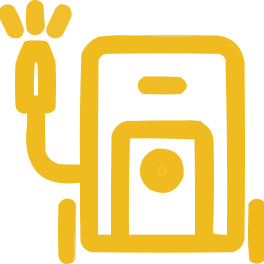
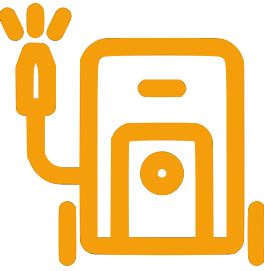
updated version (2.2)
-Added new gallery images
-Added new animations
-Added border on missing headers
-Replaced pw icon color
-Added plumbing and hurricane shutters card

diff --git a/JERCA/FrontEnd/index.html b/JERCA/FrontEnd/index.html
@@ -78,8 +78,7 @@
             </button>
             <a href="tel:2396923133" class="call-btn" id="contact-btn">
               <i class="ri-phone-line"></i>Call us now: (239)-692-3133
-              </a
-            >
+            </a>
           </div>
         </div>
       </div>
@@ -88,6 +87,10 @@
     <section class="section__container section__services" id="services">
       <div class="section__services-header">
         <h4>Services we offer</h4>
+        <p class="text-light">
+          We provide comprehensive handyman services to keep your home in
+          perfect condition.
+        </p>
       </div>
       <div class="section__services-content">
         <div class="section__services-card">
@@ -132,7 +135,23 @@
         </div>
         <div class="section__services-card">
           <div class="section__services-card-icon">
-            <span class="material-symbols-outlined">cleaning_services</span>
+            <span class="material-symbols-outlined"
+              ><span class="material-symbols-outlined"> plumbing </span></span
+            >
+          </div>
+          <h4 style="text-align: center">Plumbing Services</h4>
+          <p class="text-light">
+            Our plumbing services cover everything from leaky faucets to
+            complete installations, ensuring your plumbing systems run smoothly.
+          </p>
+        </div>
+        <div class="section__services-card">
+          <div class="section__services-card-icon">
+            <span class="material-symbols-outlined"
+              ><span class="material-symbols-outlined">
+                house_with_shield
+              </span></span
+            >
           </div>
           <h4 style="text-align: center">Hurricane Shutters instalation</h4>
           <p class="text-light">
@@ -150,23 +169,26 @@
       </div>
       <div class="section__projects-gallery">
         <section id="gallery">
-          <a href="assets/gallery-1.jpg">
-            <img src="assets/gallery-1.jpg" alt="Image 1" />
+          <a href="assets/exterior_kitchen1.jpg">
+            <img src="assets/exterior_kitchen1.jpg" alt="Exterior kitchen renovation" />
           </a>
-          <a href="assets/gallery-2.jpg">
-            <img src="assets/gallery-2.jpg" alt="Image 2" />
+          <a href="assets/modern_kitchen2.jpg">
+            <img src="assets/modern_kitchen2.jpg" alt="Modern kitchen remodel" />
           </a>
-          <a href="assets/gallery-3.jpg">
-            <img src="assets/gallery-3.jpg" alt="Image 3" />
+          <a href="assets/patio_redesign.jpg">
+            <img src="assets/patio_redesign.jpg" alt="Patio redesign" />
           </a>
-          <a href="assets/gallery-4.jpg">
-            <img src="assets/gallery-4.jpg" alt="Image 4" />
+          <a href="assets/driveway_repair.jpg">
+            <img src="assets/driveway_repair.jpg" alt="Driveway restoration" />
           </a>
-          <a href="assets/gallery-5.jpg">
-            <img src="assets/gallery-5.jpg" alt="Image 5" />
+          <a href="assets/roof_cleaning1.jpg">
+            <img src="assets/roof_cleaning1.jpg" alt="Roof cleaning" />
           </a>
-          <a href="assets/gallery-6.jpg">
-            <img src="assets/gallery-6.jpg" alt="Image 6" />
+          <a href="assets/exterior_kitchen2.jpg">
+            <img src="assets/exterior_kitchen2.jpg" alt="Exterior Kitchen Redesign" />
+          </a>
+          <a href="assets/modern_kitchen3.jpg">
+            <img src="assets/modern_kitchen3.jpg" alt="Interior kitchen renovation" />
           </a>
         </section>
       </div>
@@ -307,7 +329,7 @@
             <span class="material-symbols-outlined">phone</span>
             <div>
               <h4>Phone</h4>
-              <p class="text-light">(555) 123-4567</p>
+              <p class="text-light">(239) 692-3133</p>
               <p class="text-light">Mon-Fri: 8am-6pm</p>
             </div>
           </div>
@@ -315,7 +337,7 @@
             <span class="material-symbols-outlined">email</span>
             <div>
               <h4>Email</h4>
-              <p class="text-light">Jercaservices@outlook.com</p>
+              <p class="text-light">Jerca2@hotmail.com</p>
               <p class="text-light">Get your response within 24hrs!</p>
             </div>
           </div>
@@ -323,8 +345,8 @@
             <span class="material-symbols-outlined">map</span>
             <div>
               <h4>Location</h4>
-              <p class="text-light">123th St 45Ave NW</p>
-              <p class="text-light">Miami, FL</p>
+              <p class="text-light">5412 Cameron Dr</p>
+              <p class="text-light">Ave Maria, FL</p>
             </div>
           </div>
         </div>

diff --git a/JERCA/FrontEnd/styles/styles.css b/JERCA/FrontEnd/styles/styles.css
@@ -270,14 +270,19 @@ section {
   margin-bottom: 1rem;
 }
 
-.section__services-header::after {
+.section__services-header h4::after {
   content: "";
   display: block;
-  width: 80px;
+  width: 150px;
   height: 3px;
   background-color: var(--highlights);
   margin: 0 auto;
   margin-top: 1rem;
+}
+
+.section__services-header p {
+  padding: 1rem 0;
+  text-align: center;
 }
 
 .section__services-content {
@@ -298,7 +303,6 @@ section {
   justify-content: center;
   box-shadow: 0 10px 20px rgba(0, 0, 0, 0.05);
   transition: all 0.3s ease;
-  animation: fadeInUp 0.6s ease-out forwards;
   max-height: 450px;
 }
 
@@ -377,7 +381,7 @@ section {
 .section__projects-header h4::after {
   content: "";
   position: absolute;
-  width: 60%;
+  width: 150px;
   height: 3px;
   background-color: var(--highlights);
   bottom: -10px;
@@ -435,6 +439,16 @@ section {
 
 .section__testimonials-header {
   margin-bottom: 3rem;
+}
+
+.section__testimonials-header h4::after {
+  content: "";
+  display: block;
+  width: 150px;
+  height: 3px;
+  background-color: var(--highlights);
+  margin: 0 auto;
+  margin-top: 1rem;
 }
 
 .section__testimonials-header h4 {
@@ -501,6 +515,15 @@ section {
 .section__contact-header h4 {
   font-size: 2.2rem;
   text-align: center;
+}
+.section__contact-header h4::after {
+  content: "";
+  display: block;
+  width: 150px;
+  height: 3px;
+  background-color: var(--highlights);
+  margin: 0 auto;
+  margin-top: 1rem;
 }
 
 .section__contact-header p {
@@ -767,18 +790,6 @@ section {
   }
 }
 
-.section__services-card:nth-child(2) {
-  animation-delay: 0.2s;
-}
-
-.section__services-card:nth-child(3) {
-  animation-delay: 0.4s;
-}
-
-.section__services-card:nth-child(4) {
-  animation-delay: 0.6s;
-}
-
 /* MEDIA QUERIES */
 
 /* Tablets (≥768px) */
@@ -832,7 +843,7 @@ section {
     display: flex;
     align-items: left;
     justify-content: center;
-    /* gap: 6rem; */
+    gap: 4rem;
     top: 40%;
     left: 5%;
     transform: translateY(-40%);
@@ -927,8 +938,8 @@ section {
   }
   .cta-container {
     flex-direction: row;
-    align-items: center;
-    justify-content: center;
+    align-items: flex-start;
+    justify-content: flex-start;
     width: 100%;
     height: 100%;
   }
@@ -947,7 +958,7 @@ section {
   }
 
   .section__hero-content {
-    top: 40%;
+    top: 30%;
     left: 8%;
     max-width: 600px;
   }
@@ -957,7 +968,7 @@ section {
   }
 
   .section__services-card {
-    width: calc(25% - 2rem);
+    width: calc(33.333% - 2rem);
   }
 
   #gallery a {
@@ -1008,7 +1019,7 @@ section {
 /* Large Desktop (≥1440px) */
 @media (min-width: 1440px) {
   .section__container {
-    padding: 6rem 2rem;
+    padding: 4rem 2rem;
   }
 
   .section__hero-content {

diff --git a/JERCA/FrontEnd/scripts/script.js b/JERCA/FrontEnd/scripts/script.js
@@ -74,13 +74,36 @@ document
     alert(result.message);
   });
 
+console.log(typeof ScrollReveal);
+
 const scrollRevealOption = {
   distance: "50px",
   origin: "bottom",
-  duration: "1000",
+  duration: 1000,
 };
 
-scrollReveal().reveal(".section__hero-content", {
+ScrollReveal().reveal(".section__hero-content", {
   ...scrollRevealOption,
-  delay: 200,
+  delay: 300,
+});
+
+ScrollReveal().reveal(".section__services-header", {
+  ...scrollRevealOption,
+  delay: 300,
+});
+ScrollReveal().reveal(".section__projects-header", {
+  ...scrollRevealOption,
+  delay: 300,
+});
+ScrollReveal().reveal(".section__projects-gallery", {
+  ...scrollRevealOption,
+  interval: 300,
+});
+ScrollReveal().reveal(".section__testimonials-header", {
+  ...scrollRevealOption,
+  delay: 300,
+});
+ScrollReveal().reveal(".section__contact-header", {
+  ...scrollRevealOption,
+  delay: 300,
 });
